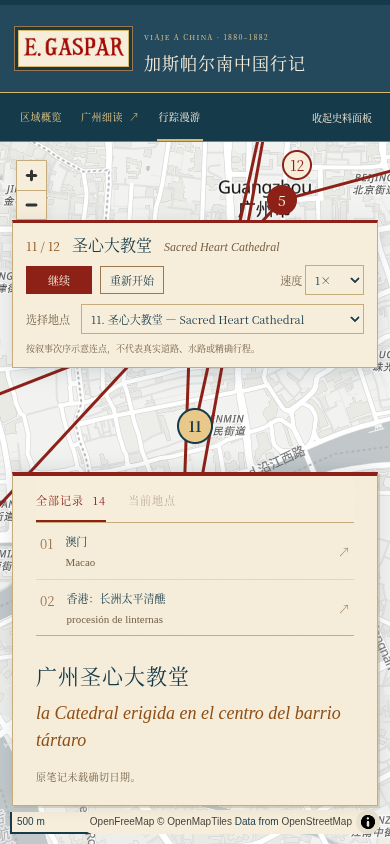
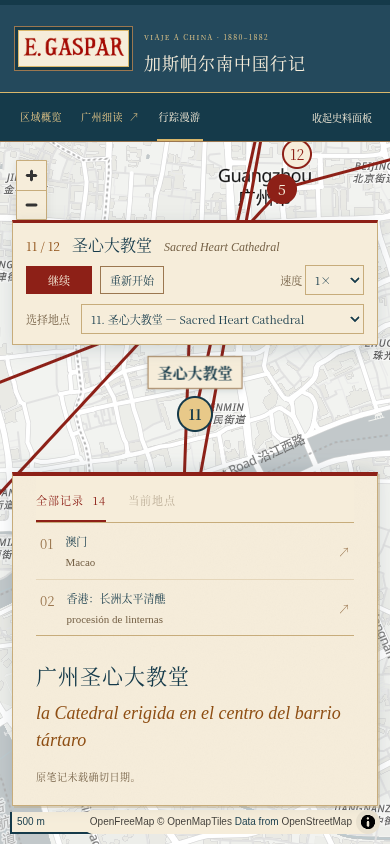
Keep journey markers clear of compact controls and update selected place links

diff --git a/004_Interactive_Map_MVP/tests/journey.spec.ts b/004_Interactive_Map_MVP/tests/journey.spec.ts
@@ -26,7 +26,7 @@ test('curated stops preserve 14 source records, verified coordinates and exact s
 });
 
 test('journey plays, pauses, resumes, retains completed route and restarts', async ({page}) => {
-  test.setTimeout(65000);
+  test.setTimeout(100000);
   await page.goto('/');
   await expect(page.getByTestId('record-list').locator('li')).toHaveCount(14);
   await page.getByRole('button', {name:'行踪漫游',exact:true}).click();
@@ -42,7 +42,7 @@ test('journey plays, pauses, resumes, retains completed route and restarts', asy
   expect(Number(await canvas.getAttribute('data-progress'))).toBeCloseTo(paused, 3);
   await page.getByLabel('播放速度').selectOption('4');
   await page.getByRole('button',{name:'继续',exact:true}).click();
-  await expect(canvas).toHaveAttribute('data-complete','true',{timeout:20000});
+  await expect(canvas).toHaveAttribute('data-complete','true',{timeout:60000});
   await expect(canvas).toHaveAttribute('data-route-points','12');
   await expect(page.locator('.journey-current')).toContainText('12 / 12');
   await expect(page.locator('.journey-current')).toContainText('两广总督衙门');
@@ -83,13 +83,17 @@ test('mobile journey has all stops, 3px route and usable playback controls',asyn
   await page.getByLabel('选择漫游地点').selectOption('10');
   await expect(page.getByTestId('journey-canvas')).toHaveAttribute('data-map-idle','true',{timeout:20000});
   expect(await page.locator('.journey-marker').evaluateAll(elements => elements.every(element => getComputedStyle(element).position === 'absolute'))).toBe(true);
+  const caption = page.locator('.journey-marker.active .journey-stop-label');
+  await expect(caption).toBeVisible(); await expect(caption).toHaveText('圣心大教堂');
+  const captionBox = await caption.boundingBox();
+  expect(captionBox!.y).toBeGreaterThan(controls!.y + controls!.height);
   const activeMarker = await page.locator('.journey-marker.active').boundingBox();
   expect(activeMarker!.y).toBeGreaterThan(controls!.y + controls!.height);
   expect(activeMarker!.y + activeMarker!.height).toBeLessThan(panel!.y);
   await page.screenshot({path:'journey-mobile.png'});
 });
 
-test('six introduction links use real relevant pages in a new tab; other records have none',async({page})=>{
+test('six introduction links open their assigned URLs in a new tab; other records have none',async({page})=>{
   test.setTimeout(90000);
   await page.goto('/'); await expect(page.getByTestId('record-list').locator('li')).toHaveCount(14);
   for(let sequence=1;sequence<=14;sequence++){
@@ -97,11 +101,34 @@ test('six introduction links use real relevant pages in a new tab; other records
     const link=page.getByRole('link',{name:'了解此地'});
     if(sequence<9) {await expect(link).toHaveCount(0);continue;}
     await expect(link).toHaveAttribute('href',placeInformation[sequence].place_info_url);
+    // Verify new-tab navigation independently of third-party anti-bot or TLS policies.
+    const url = placeInformation[sequence].place_info_url;
+    await page.context().route(candidate => decodeURI(candidate.href) === decodeURI(url), route => route.abort());
+    const requested = page.context().waitForEvent('request', request => decodeURI(request.url()) === decodeURI(url));
     const popupPromise=page.waitForEvent('popup'); await link.click(); const popup=await popupPromise;
-    await popup.waitForLoadState('domcontentloaded');
-    expect(new URL(popup.url()).hostname).toBe(new URL(placeInformation[sequence].place_info_url).hostname);
-    await expect(popup.locator('body')).not.toBeEmpty();await popup.close();
+    expect(decodeURI((await requested).url())).toBe(decodeURI(url)); await popup.close();
   }
   await expect(page.getByText('考证札记',{exact:true})).toHaveCount(0);
   await expect(page.getByText('查看地点来源',{exact:true})).toHaveCount(0);
+});
+
+test('compact desktop controls leave reached Humen marker and floating caption clear during playback', async ({page}) => {
+  await page.goto('/');
+  await page.getByRole('button',{name:'行踪漫游',exact:true}).click();
+  await page.getByLabel('选择漫游地点').selectOption('2');
+  await expect(page.getByTestId('journey-canvas')).toHaveAttribute('data-map-idle','true');
+  await page.getByLabel('播放速度').selectOption('0.5');
+  await page.getByRole('button',{name:'继续',exact:true}).click();
+  await expect.poll(async()=>Number(await page.getByTestId('journey-canvas').getAttribute('data-progress'))).toBeGreaterThan(2.1);
+  const controls = (await page.locator('.journey-controls').boundingBox())!;
+  expect(controls.width).toBeLessThanOrEqual(365);
+  const marker = (await page.locator('.journey-marker.active').boundingBox())!;
+  const caption = page.locator('.journey-marker.active .journey-stop-label');
+  await expect(caption).toHaveText('虎门');
+  const label = (await caption.boundingBox())!;
+  expect(label.y + label.height).toBeLessThan(marker.y);
+  expect(marker.y + marker.height).toBeLessThan(controls.y);
+  await expect(page.locator('.journey-disclaimer')).toHaveCount(0);
+  await page.getByRole('button',{name:'暂停',exact:true}).click();
+  await page.screenshot({path:'journey-humen.png'});
 });

diff --git a/004_Interactive_Map_MVP/src/JourneyMap.tsx b/004_Interactive_Map_MVP/src/JourneyMap.tsx
@@ -1,7 +1,7 @@
 import { useEffect, useRef, useState } from 'react';
 import maplibregl, { type GeoJSONSource, type Map as LibreMap, Marker } from 'maplibre-gl';
 import 'maplibre-gl/dist/maplibre-gl.css';
-import { journeyCoordinates, journeyLineLayer, positionAt, SEGMENT_SECONDS, type JourneyStop } from './journey';
+import { journeyCoordinates, journeyLineLayer, SEGMENT_SECONDS, type JourneyStop } from './journey';
 import type { Place } from './data';
 
 function readingPadding(map: LibreMap, panelOpen: boolean) {
@@ -12,7 +12,8 @@ function readingPadding(map: LibreMap, panelOpen: boolean) {
     const top = Math.min(controls ? controls.offsetTop + controls.offsetHeight + 12 : 220, Math.max(0, height - bottom - 40));
     return { top, bottom, left: 0, right: 0 };
   }
-  return { top: 0, left: 0, right: panelOpen && map.getContainer().clientWidth >= 900 ? 488 : 0, bottom: 0 };
+  const controls = map.getContainer().parentElement?.querySelector<HTMLElement>('.journey-controls');
+  return { top: 82, left: 24, right: panelOpen && map.getContainer().clientWidth >= 900 ? 488 : 24, bottom: controls ? controls.offsetHeight + 65 : 230 };
 }
 
 export default function JourneyMap({ stops, panelOpen, onStop }: { stops: JourneyStop[]; panelOpen: boolean; onStop: (record: Place) => void }) {
@@ -52,7 +53,9 @@ export default function JourneyMap({ stops, panelOpen, onStop }: { stops: Journe
     map.addControl(new maplibregl.ScaleControl({ unit: 'metric' }), 'bottom-left');
     const markers = stops.map((stop, index) => {
       const button = document.createElement('button'); button.type = 'button'; button.className = 'journey-marker upcoming';
-      button.textContent = String(stop.step); button.setAttribute('aria-label', `漫游第${stop.step}站 ${stop.name}`);
+      const number = document.createElement('span'); number.textContent = String(stop.step);
+      const label = document.createElement('span'); label.className = 'journey-stop-label'; label.textContent = stop.name; label.setAttribute('aria-hidden', 'true');
+      button.append(number, label); button.setAttribute('aria-label', `漫游第${stop.step}站 ${stop.name}`);
       button.title = `${stop.name} · ${stop.english}`; button.addEventListener('click', () => selectRef.current(index));
       elements.current[index] = button;
       return new Marker({ element: button, anchor: 'center' }).setLngLat(stop.coordinates).addTo(map);
@@ -104,12 +107,16 @@ export default function JourneyMap({ stops, panelOpen, onStop }: { stops: Journe
       map.easeTo({ center: [113.72, 22.7], zoom: 8.1, duration: 700 });
     } else {
       const zoom = progress < 3 ? 8.1 : 8.1 + Math.min((progress - 3) / 2, 1) * 5.4;
-      let center = positionAt(stops, progress);
+      let center = stops[active].coordinates;
       if (progress < .25) {
         const blend = progress / .25;
         center = [113.72 + (center[0] - 113.72) * blend, 22.7 + (center[1] - 22.7) * blend];
       }
-      if (playingRef.current) map.jumpTo({ center, zoom });
+      if (playingRef.current) {
+        const previous = map.getCenter();
+        // Follow the reached gold marker within the unobstructed viewport.
+        map.jumpTo({ center: [previous.lng + (center[0] - previous.lng) * .12, previous.lat + (center[1] - previous.lat) * .12], zoom });
+      }
       else map.easeTo({ center, zoom, duration: 700 });
     }
   }, [progress, ready, stops]);
@@ -121,7 +128,6 @@ export default function JourneyMap({ stops, panelOpen, onStop }: { stops: Journe
       <div className="journey-current" aria-live="polite"><span className="journey-step">{String(current.step).padStart(2, '0')} / 12</span><strong>{current.name}</strong><span lang="en">{current.english}</span></div>
       <div className="journey-actions"><button className="journey-play" disabled={!ready} onClick={togglePlayback}>{playing ? '暂停' : finished ? '再次播放' : progress > 0 ? '继续' : '播放'}</button><button onClick={restart}>重新开始</button><label>速度 <select aria-label="播放速度" value={speed} onChange={event => setSpeed(Number(event.target.value))}>{[.5, 1, 2, 4].map(value => <option key={value} value={value}>{value}×</option>)}</select></label></div>
       <label className="journey-seek">选择地点<select aria-label="选择漫游地点" value={active} onChange={event => seek(Number(event.target.value))}>{stops.map((stop, index) => <option value={index} key={stop.step}>{stop.step}. {stop.name} — {stop.english}</option>)}</select></label>
-      <p className="journey-disclaimer">按叙事次序示意连点，不代表真实道路、水路或精确行程。</p>
     </div>
   </section>;
 }

diff --git a/004_Interactive_Map_MVP/src/placeInfo.ts b/004_Interactive_Map_MVP/src/placeInfo.ts
@@ -1,12 +1,12 @@
 import type { Place } from './data';
-/** Introduction pages, not geocoding endpoints. Retrieved and read on 2026-10-27. */
+/** Introduction pages, not geocoding endpoints. Includes user-selected introduction URLs updated on 2026-10-27. */
 export const placeInformation: Record<number, { place_info_url: string; publisher: string; title: string }> = {
   9: { place_info_url: 'https://zh.wikipedia.org/wiki/华林寺_(广州)', publisher: '维基百科（官方旧链接失效后的备选）', title: '华林寺（广州）' },
-  10: { place_info_url: 'https://zh.wikipedia.org/wiki/五仙观', publisher: '维基百科（官方旧链接无法读取后的备选）', title: '五仙观' },
-  11: { place_info_url: 'https://zh.wikipedia.org/wiki/海幢寺', publisher: '维基百科（官方旧链接失效后的备选）', title: '海幢寺' },
+  10: { place_info_url: 'https://www.yuexiu.gov.cn/zjyx/yxjd/ycty/content/post_3560955.html', publisher: '广州市越秀区人民政府', title: '五仙观' },
+  11: { place_info_url: 'https://cn.tripadvisor.com/Attraction_Review-g298555-d1797602-Reviews-Hoi_Tong_Monastery-Guangzhou_Guangdong.html', publisher: 'Tripadvisor', title: '海幢寺' },
   12: { place_info_url: 'https://www.guangzhoumuseum.cn/website_cn/Web/Visit/VisitGuide.aspx?id=16', publisher: '广州博物馆', title: '镇海楼展区参观指引' },
-  13: { place_info_url: 'https://www.yuexiu.gov.cn/zjyx/yxjd/zjwh/content/post_8665100.html', publisher: '广州市越秀区人民政府', title: '圣心大教堂' },
-  14: { place_info_url: 'https://www.yuexiu.gov.cn/zjyx/yxgk/whhs/content/post_3560709.html#:~:text=小东营位于越华路', publisher: '广州市越秀区人民政府', title: '广州市越秀区街巷趣谈·小东营（含清两广总督署及今省民政厅位置介绍）' },
+  13: { place_info_url: 'https://cn.tripadvisor.com/Attraction_Review-g298555-d553965-Reviews-Sacred_Heart_Cathedral-Guangzhou_Guangdong.html', publisher: 'Tripadvisor', title: '石室圣心大教堂' },
+  14: { place_info_url: 'https://www.zhongguodiqing.cn/dqwh/dqwh_dqyj/201907/t20190725_4938968.shtml', publisher: '中国地情网', title: '两广总督衙门' },
 };
 export function attachPlaceInformation(records: Place[]): Place[] {
   return records.map(record => ({ ...record, place_info_url: placeInformation[record.sequence]?.place_info_url ?? null }));

diff --git a/004_Interactive_Map_MVP/src/style.css b/004_Interactive_Map_MVP/src/style.css
@@ -181,7 +181,7 @@ h1 { font-family: var(--serif); font-size: 27px; font-weight: 500; letter-spacin
 }
 /* Curated narrative journey: no source-record renumbering or inferred roads. */
 .place-information { margin-top: 26px; padding-top: 17px; border-top: 1px solid var(--paper-edge); }
-.journey-controls { position: absolute; z-index: 2; left: 24px; bottom: 42px; width: min(440px, calc(100% - 48px)); padding: 18px 21px 15px; background: var(--paper); border: 1px solid var(--paper-edge); border-top: 3px solid var(--crimson); box-shadow: 0 5px 18px #153a4a25; }
+.journey-controls { position: absolute; z-index: 2; left: 24px; bottom: 42px; width: min(330px, calc(100% - 48px)); padding: 13px 16px 12px; background: var(--paper); border: 1px solid var(--paper-edge); border-top: 3px solid var(--crimson); box-shadow: 0 5px 18px #153a4a25; }
 .journey-current { display: flex; flex-wrap: wrap; gap: 7px 12px; align-items: baseline; color: var(--ink-blue); }
 .journey-step { color: var(--umber); font-family: var(--latin-serif); font-size: 12px; }
 .journey-current strong { font-weight: 500; font-size: 19px; }
@@ -210,9 +210,14 @@ h1 { font-family: var(--serif); font-size: 27px; font-weight: 500; letter-spacin
   .journey-map .tile-notice { top: auto; bottom: 28px; }
 }
 @media(min-width:900px) {
-  .workspace:not(.panel-collapsed) .journey-controls { width: min(440px, calc(100% - 536px)); }
+  .workspace:not(.panel-collapsed) .journey-controls { width: min(330px, calc(100% - 536px)); }
 }
 @media(min-width:651px) and (max-width:899px) {
   .workspace:not(.panel-collapsed) .journey-controls { width: calc(52% - 52px); padding: 12px; }
   .journey-actions { gap: 7px; }
 }
+
+/* Reached stop caption floats above its gold marker. */
+.journey-stop-label { display: none; position: absolute; left: 50%; bottom: calc(100% + 9px); transform: translateX(-50%); width: max-content; max-width: 220px; padding: 6px 12px; background: var(--paper); color: var(--ink-blue); border: 1px solid var(--aged-brown); box-shadow: 0 2px 6px #153a4a25; font: 600 18px serif; pointer-events: none; }
+.journey-marker.active .journey-stop-label { display: block; }
+@media (max-width: 650px) { .journey-stop-label { font-size: 15px; padding: 5px 9px; } }

diff --git a/004_Interactive_Map_MVP/README.md b/004_Interactive_Map_MVP/README.md
@@ -123,17 +123,19 @@ Playwright使用系统Chromium（若存在）；也可设置 `PLAYWRIGHT_CHROMIU
 
 “考证札记”不再显示，但原札记仍保存在 `src/researchNotes.ts`，CSV的historical_notes读取支持及全部坐标来源均保留。
 
-“了解此地”使用独立的 `place_info_url` 元数据（`src/placeInfo.ts`），在读取时附加到阅读模型，不写回CSV、不覆盖 `coordinate_source`。只对六处指定地点显示，新标签打开并设置noopener／noreferrer；其他地点隐藏。已实际读取页面内容并核对地点，访问状态均200：
+“了解此地”使用独立的 `place_info_url` 元数据（`src/placeInfo.ts`），在读取时附加到阅读模型，不写回CSV、不覆盖 `coordinate_source`。只对六处指定地点显示，新标签打开并设置noopener／noreferrer；其他地点隐藏。其中四个地址按用户最新指定更新；访问限制见下文：
 
 | 源sequence | 地点 | 介绍来源 |
 |---|---|---|
 | 9 | 华林寺 | [维基百科地点专页](https://zh.wikipedia.org/wiki/华林寺_(广州)) |
-| 10 | 五仙观 | [维基百科地点专页](https://zh.wikipedia.org/wiki/五仙观) |
-| 11 | 海幢寺 | [维基百科地点专页](https://zh.wikipedia.org/wiki/海幢寺) |
+| 10 | 五仙观 | [地点介绍](https://www.yuexiu.gov.cn/zjyx/yxjd/ycty/content/post_3560955.html) |
+| 11 | 海幢寺 | [地点介绍](https://cn.tripadvisor.com/Attraction_Review-g298555-d1797602-Reviews-Hoi_Tong_Monastery-Guangzhou_Guangdong.html) |
 | 12 | 镇海楼 | [广州博物馆镇海楼展区指引](https://www.guangzhoumuseum.cn/website_cn/Web/Visit/VisitGuide.aspx?id=16) |
-| 13 | 圣心大教堂 | [越秀区政府地点介绍](https://www.yuexiu.gov.cn/zjyx/yxjd/zjwh/content/post_8665100.html) |
-| 14 | 两广总督衙门 | [越秀区政府街巷史·小东营段落](https://www.yuexiu.gov.cn/zjyx/yxgk/whhs/content/post_3560709.html#:~:text=小东营位于越华路) |
+| 13 | 圣心大教堂 | [地点介绍](https://cn.tripadvisor.com/Attraction_Review-g298555-d553965-Reviews-Sacred_Heart_Cathedral-Guangzhou_Guangdong.html) |
+| 14 | 两广总督衙门 | [地点介绍](https://www.zhongguodiqing.cn/dqwh/dqwh_dqyj/201907/t20190725_4938968.shtml) |
 
-前三处部分旧政府／图书馆链接返回404或503，故采用可核实的百科专页作为备选。总督衙门使用官方文章中介绍清两广总督署及今省民政厅所在地的段落，附文本定位；不以坐标PDF或泛机构主页代替地点介绍。链接今后若失效且无可靠替代，应将对应place_info_url留空以隐藏。
+华林寺、镇海楼介绍来源不变；五仙观、海幢寺、圣心大教堂和两广总督衙门改用用户提供的网页。当前云环境请求前述前三个新地址返回HTTP403，中国地情网返回200。自动测试验证指定URL和新标签导航，不将第三方拒绝访问误报为页面已成功读取。
+
+漫游控制面板缩窄至330px内容宽度，镜头为控制面板与阅读页预留空间；当前到达站的黄色标记上方单独显示地点浮签。播放时镜头平滑跟随已到达站，面板中的路线说明按要求移除；示意路线的方法仍见本README。
 
 Codespaces更新方式不变：停止旧Vite，从仓库根目录 `git pull --ff-only origin main`，进入004后运行 `npm run dev`，打开现有5173转发地址。不创建永久部署、不修改仓库隐私。

diff --git a/004_Interactive_Map_MVP/VALIDATION.md b/004_Interactive_Map_MVP/VALIDATION.md
@@ -52,3 +52,13 @@
 - 仍使用现有GitHub Codespaces工作流，未创建新的托管服务或永久部署；此前外链匿名401记录不代表本轮已完成远端验收。
 
 最终回归结果：`npm run build`成功；`npm test`共11项全部通过。另校验漫游标记保留MapLibre绝对定位样式、手机手动选站标记不被控制栏或阅读页遮挡。源CSV与阶段03逐字节一致，源考证札记逐字保留，原MapView.tsx未改动。
+
+
+## 漫游面板与地点浮签细化（2026-10-27）
+
+- 控制面板内容宽度缩为330px；桌面镜头预留底部控制区和右侧阅读页，播放时平滑跟随已到达站，避免黄色标记被播放面板覆盖。
+- 当前黄色圆点上方独立显示地点浮签；其余标记隐藏浮签，保留编号。移除面板中用户划线的路线说明；示意连线的方法说明仍保留在README。
+- 五仙观、海幢寺、圣心大教堂、两广总督衙门介绍链接精确替换为用户指定URL，坐标来源及原始CSV不变。云端请求前3个新链接返回403，中国地情网返回200。浏览器测试验证新标签导航地址，不声称403页面内容已读取。
+- 新增虎门播放时的面板/标记/浮签几何测试；手机验证浮签与图标均位于播放栏和阅读页之间。截图：journey-humen.png、journey-desktop.png、journey-mobile.png。
+
+本轮最终验证：生产构建成功，全部12项自动测试通过（1.9分钟）。包含真实OpenFreeMap地图资源加载、桌面虎门播放遮挡检测、手机浮签位置、12站完整播放和14条原文回归。001–003无Git差异，应用CSV与阶段03数据逐字节一致。
